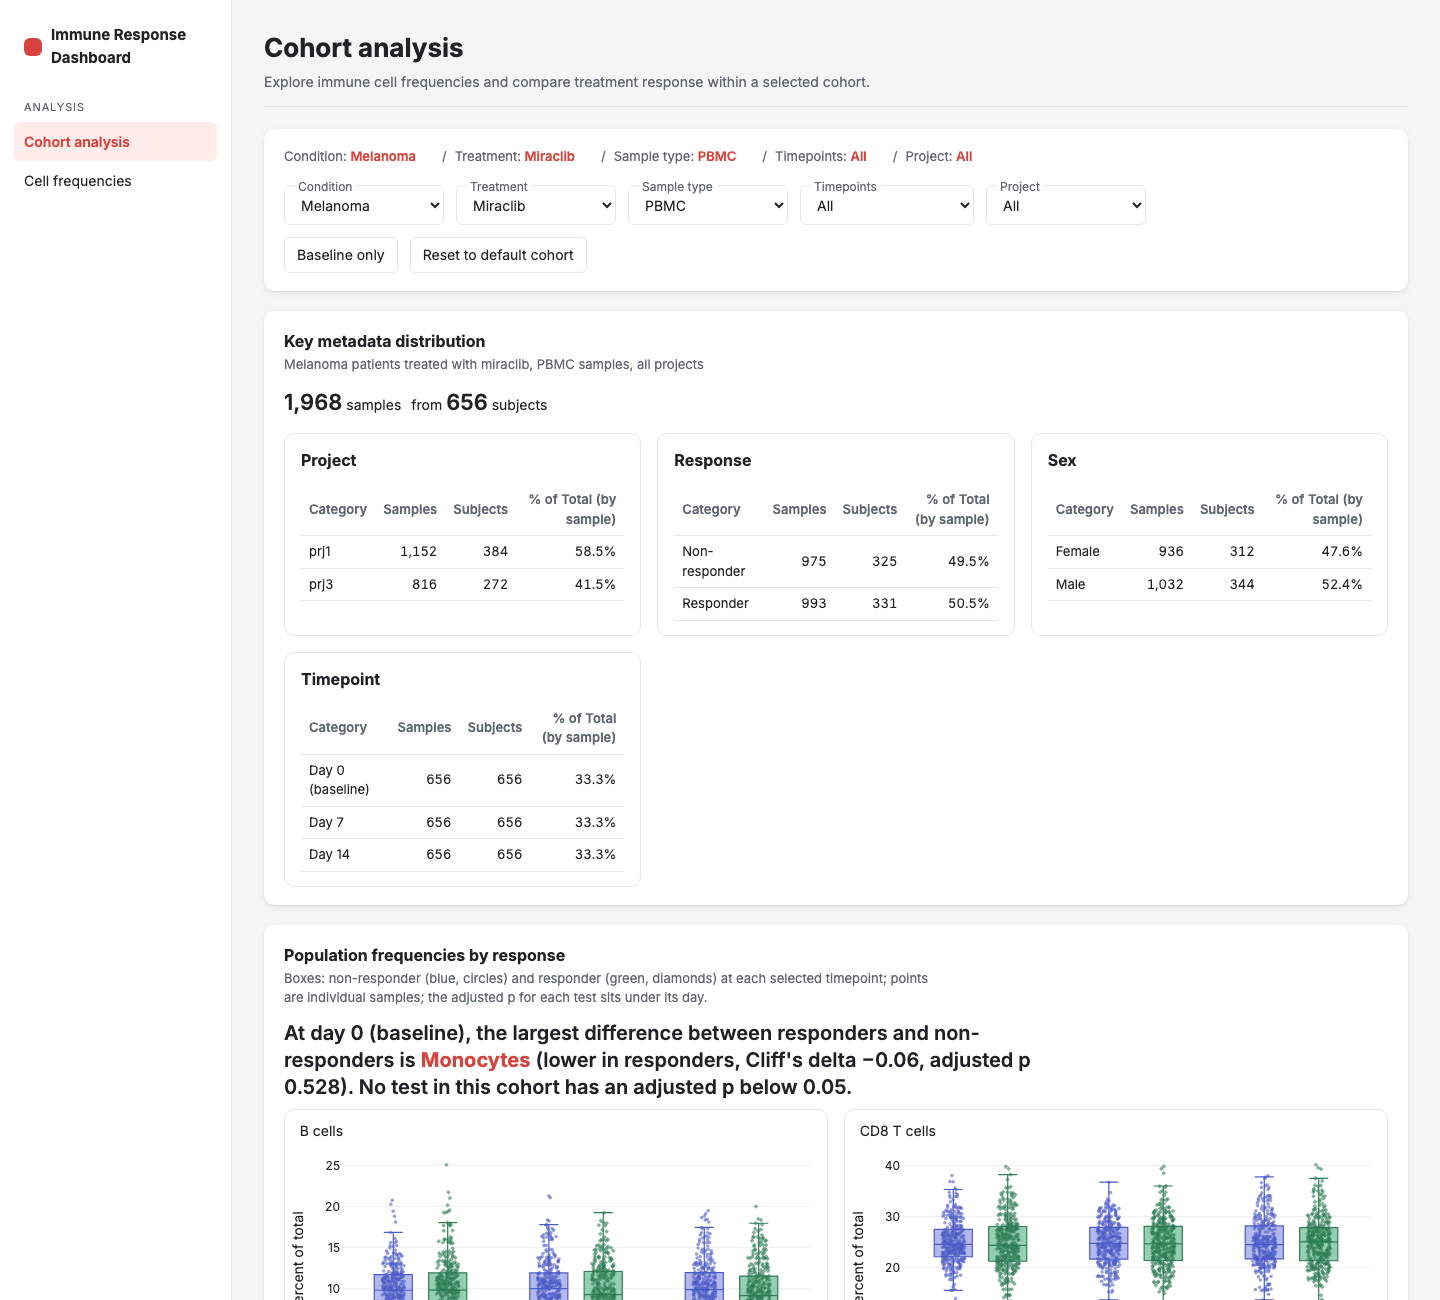
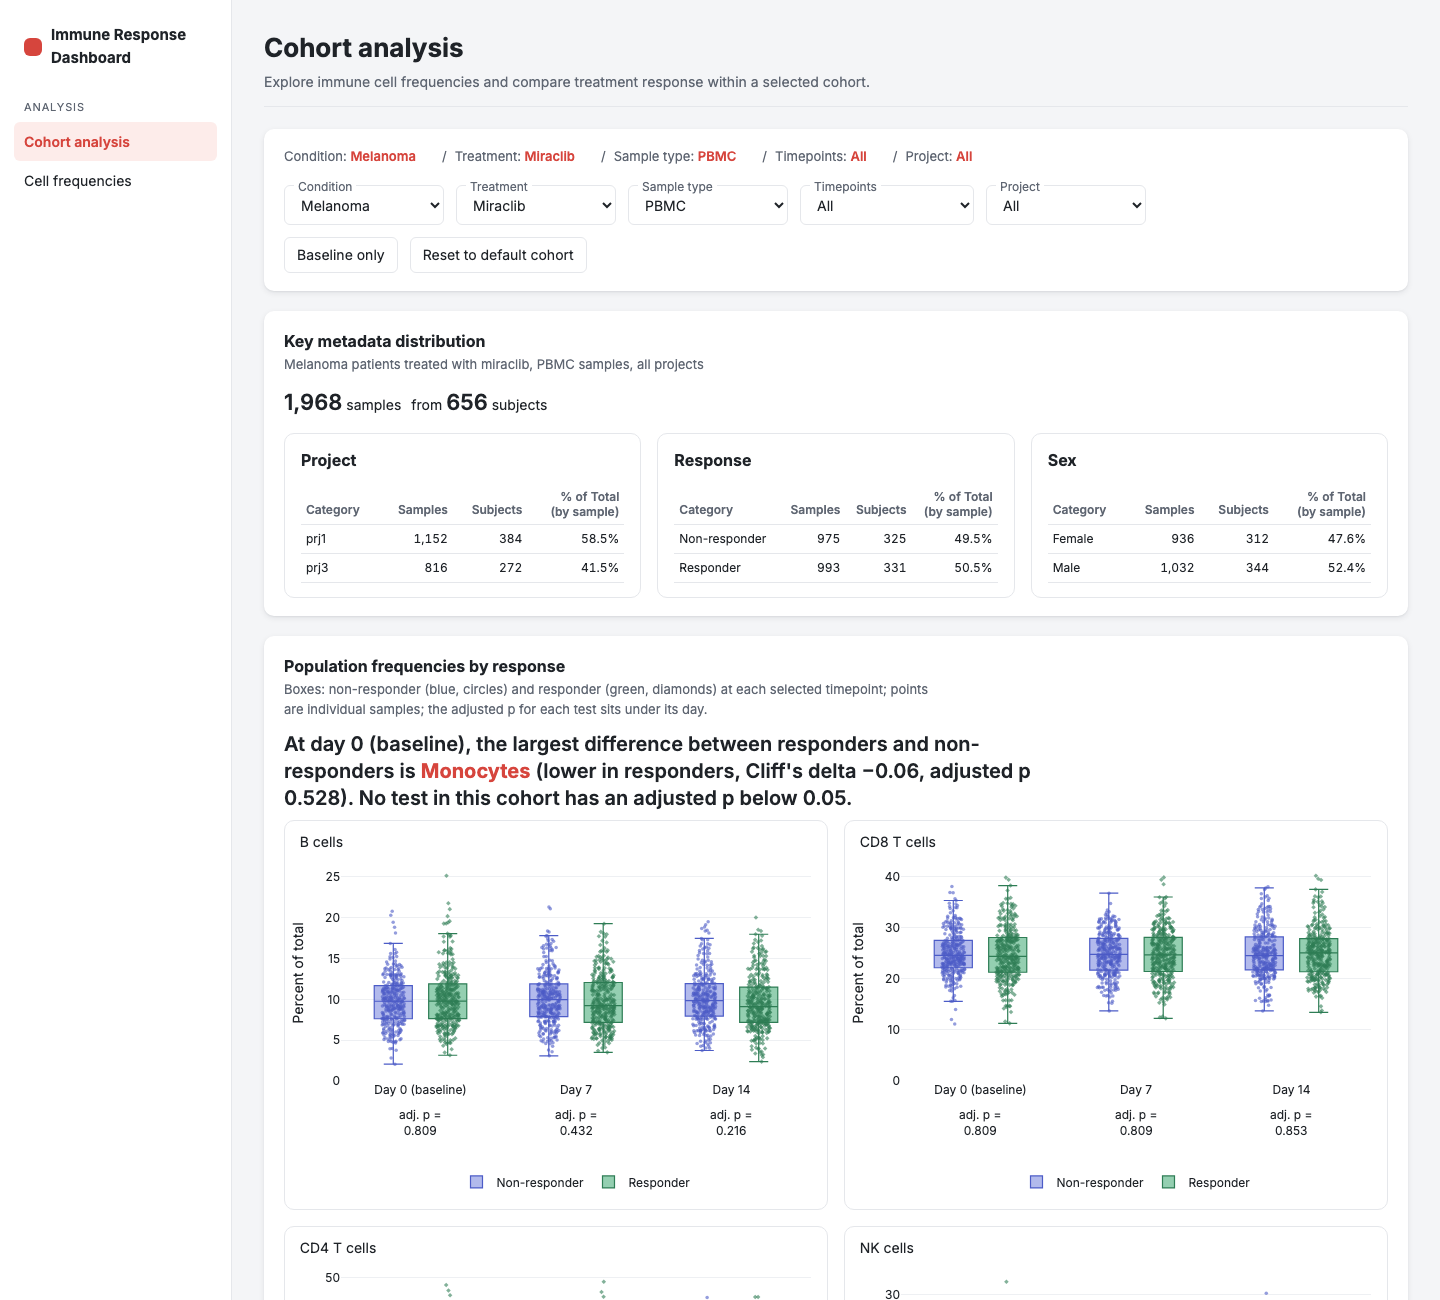
Remove the timepoint card and give the layout a minimum width

diff --git a/frontend/src/styles.css b/frontend/src/styles.css
@@ -26,7 +26,8 @@ a { color: inherit; }
 ::selection { background: var(--accent-bg); }
 :focus-visible { outline: 2px solid var(--accent); outline-offset: 2px; border-radius: var(--radius-control); }
 
-.layout { display: flex; min-height: 100vh; }
+.layout { display: flex; min-height: 100vh; min-width: 1024px; }
+/* Like a desktop analysis tool: below 1024px the page scrolls sideways instead of collapsing the tables and charts. */
 .sidebar { width: 232px; flex: 0 0 232px; display: flex; flex-direction: column; background: var(--card); border-right: 1px solid var(--line); padding: 20px 14px; }
 .sidebar__brand { display: flex; align-items: center; gap: 9px; font-weight: 700; font-size: 15px; padding: 4px 10px 18px; }
 .sidebar__mark { width: 18px; height: 18px; border-radius: var(--radius-control); background: var(--accent); flex: none; }
@@ -46,9 +47,16 @@ main { flex: 1; min-width: 0; padding: 28px 32px 48px; }
 .card__title { margin: 0; font-size: 16px; font-weight: 700; }
 .card__subtitle { margin: 2px 0 0; color: var(--muted); font-size: 13px; max-width: 80ch; }
 .card--nested { box-shadow: none; border: 1px solid var(--line); padding: 14px 16px; margin: 0; }
-.card--nested { overflow-x: auto; }
-.card--nested table.data th, .card--nested table.data td { white-space: normal; padding: 6px 8px; }
-.grid { display: grid; gap: 16px; grid-template-columns: repeat(auto-fill, minmax(280px, 1fr)); }
+.card--nested { overflow-x: auto; container-type: inline-size; }
+.card--nested table.data th { white-space: nowrap; padding: 6px 8px; vertical-align: bottom; }
+.card--nested table.data td { white-space: normal; padding: 6px 8px; }
+.th-line { display: block; line-height: 1.25; }
+/* A narrow card (one per row on a phone) shrinks its table rather than scrolling it. */
+@container (max-width: 360px) {
+  .card--nested table.data { font-size: 12px; }
+  .card--nested table.data th, .card--nested table.data td { padding: 5px 5px; }
+}
+.grid { display: grid; gap: 16px; grid-template-columns: repeat(auto-fit, minmax(min(100%, 280px), 1fr)); }
 
 .chip { display: inline-block; padding: 2px 10px; border-radius: 999px; font-size: 12px; font-weight: 600; white-space: nowrap; }
 .chip--green { background: var(--green-bg); color: var(--green-fg); }
@@ -104,7 +112,8 @@ table.data td .sig { color: var(--accent); font-weight: 600; }
 .chart-panel--empty .note { margin: 0 8px; }
 .skeleton--block { height: 180px; }
 
-.charts { display: grid; gap: 16px; grid-template-columns: repeat(auto-fill, minmax(360px, 1fr)); }
+.charts { display: grid; gap: 16px; grid-template-columns: repeat(2, minmax(0, 1fr)); }
+@media (min-width: 1700px) { .charts { grid-template-columns: repeat(3, minmax(0, 1fr)); } }
 .chart-panel { border: 1px solid var(--line); border-radius: var(--radius-panel); padding: 8px 4px 0; }
 .chart-panel--hit { border-color: var(--accent); }
 .skeleton { height: 360px; border-radius: var(--radius-panel); background: linear-gradient(90deg, #f3f4f6 25%, #e9ebef 50%, #f3f4f6 75%); background-size: 200% 100%; animation: shimmer 1.2s ease-out infinite; }
@@ -113,13 +122,3 @@ table.data td .sig { color: var(--accent); font-weight: 600; }
 .refreshable--busy { opacity: 0.6; }
 @media (prefers-reduced-motion: reduce) { .skeleton { animation: none; } .refreshable { transition: none; } }
 
-@media (max-width: 800px) {
-  .layout { flex-direction: column; }
-  .sidebar { width: auto; flex: none; border-right: 0; border-bottom: 1px solid var(--line); }
-  .sidebar__footer { display: none; }
-  main { padding: 20px 16px; }
-  .charts { grid-template-columns: 1fr; }
-  .crumb__sep { margin: 0 4px; }
-  .field, .field select, .field-actions, .field-actions .button { width: 100%; }
-  .page-header h1 { font-size: 22px; }
-}

diff --git a/frontend/src/components/BreakdownCard.tsx b/frontend/src/components/BreakdownCard.tsx
@@ -1,5 +1,4 @@
 import { Card } from "./Card";
-import { dayLabel } from "../charts/PopulationBoxplot";
 import type { BreakdownRow } from "../types";
 
 const CATEGORY_LABELS: Record<string, string> = {
@@ -7,7 +6,7 @@ const CATEGORY_LABELS: Record<string, string> = {
 };
 
 /** One composition table for the selected cohort: category, samples, subjects, share of the cohort. */
-export function BreakdownCard({ title, rows, timepoint }: { title: string; rows: BreakdownRow[]; timepoint?: boolean }) {
+export function BreakdownCard({ title, rows }: { title: string; rows: BreakdownRow[] }) {
   return (
     <Card nested title={title}>
       <table className="data">
@@ -16,13 +15,13 @@ export function BreakdownCard({ title, rows, timepoint }: { title: string; rows:
             <th scope="col">Category</th>
             <th scope="col" className="num">Samples</th>
             <th scope="col" className="num">Subjects</th>
-            <th scope="col" className="num">% of Total (by sample)</th>
+            <th scope="col" className="num"><span className="th-line">% of Total</span><span className="th-line">(by sample)</span></th>
           </tr>
         </thead>
         <tbody>
           {rows.map((r) => (
             <tr key={String(r.category)}>
-              <td>{timepoint ? dayLabel(Number(r.category)) : CATEGORY_LABELS[String(r.category)] ?? String(r.category)}</td>
+              <td>{CATEGORY_LABELS[String(r.category)] ?? String(r.category)}</td>
               <td className="num">{r.n_samples.toLocaleString()}</td>
               <td className="num">{r.n_subjects.toLocaleString()}</td>
               <td className="num">{r.pct_samples.toFixed(1)}%</td>

diff --git a/frontend/src/pages/CohortPage.tsx b/frontend/src/pages/CohortPage.tsx
@@ -294,9 +294,6 @@ export function CohortPage() {
                   <BreakdownCard title="Project" rows={summary.breakdowns.project} />
                   <BreakdownCard title="Response" rows={summary.breakdowns.response} />
                   <BreakdownCard title="Sex" rows={summary.breakdowns.sex} />
-                  {filters.time_from_treatment_start === "all" && (
-                    <BreakdownCard title="Timepoint" rows={summary.breakdowns.time_from_treatment_start} timepoint />
-                  )}
                 </div>
               </>
             )}
